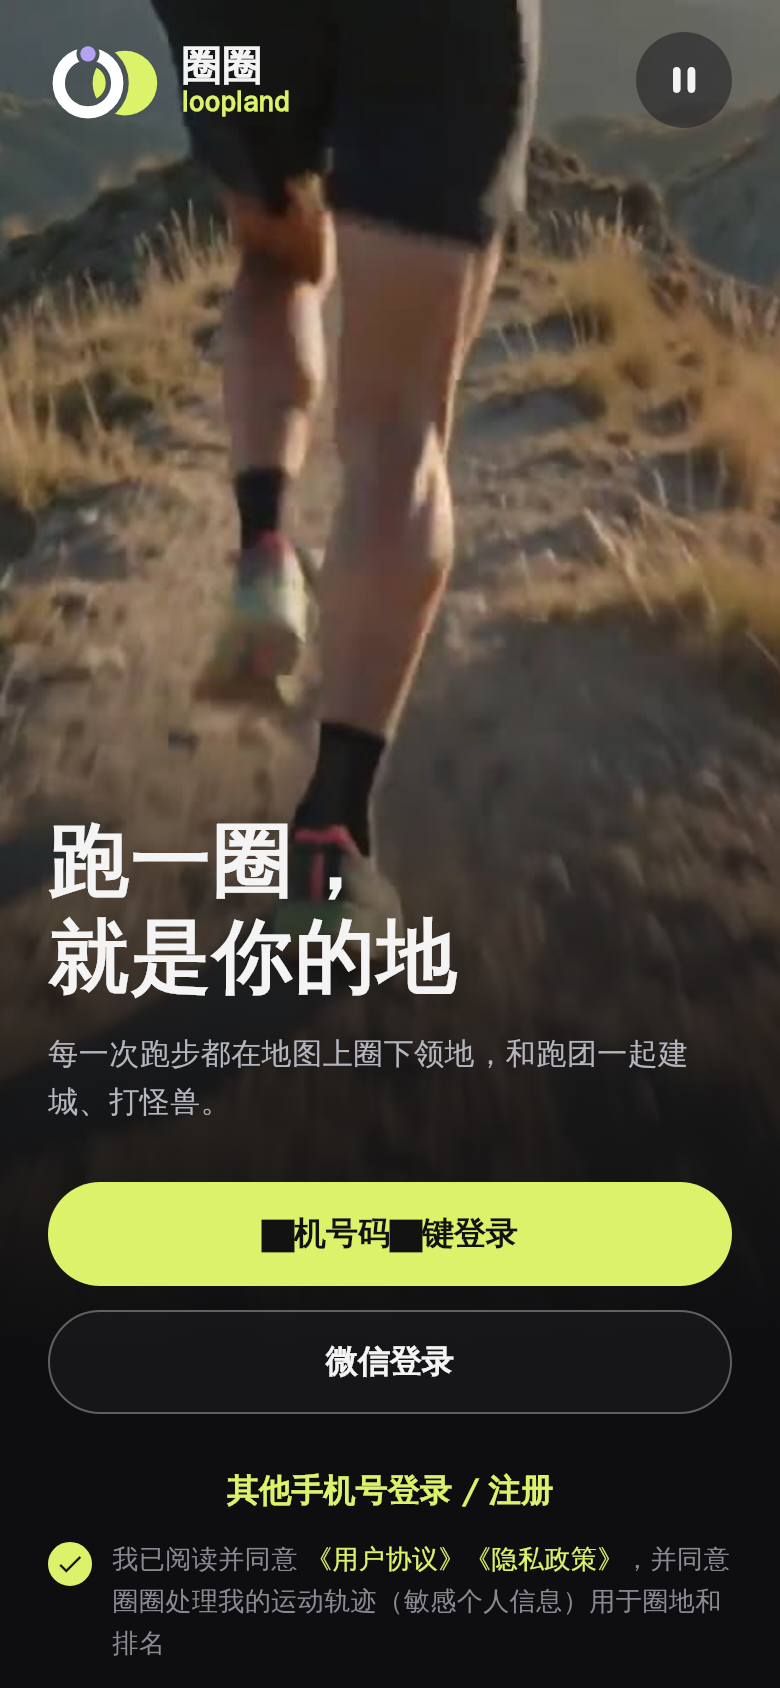
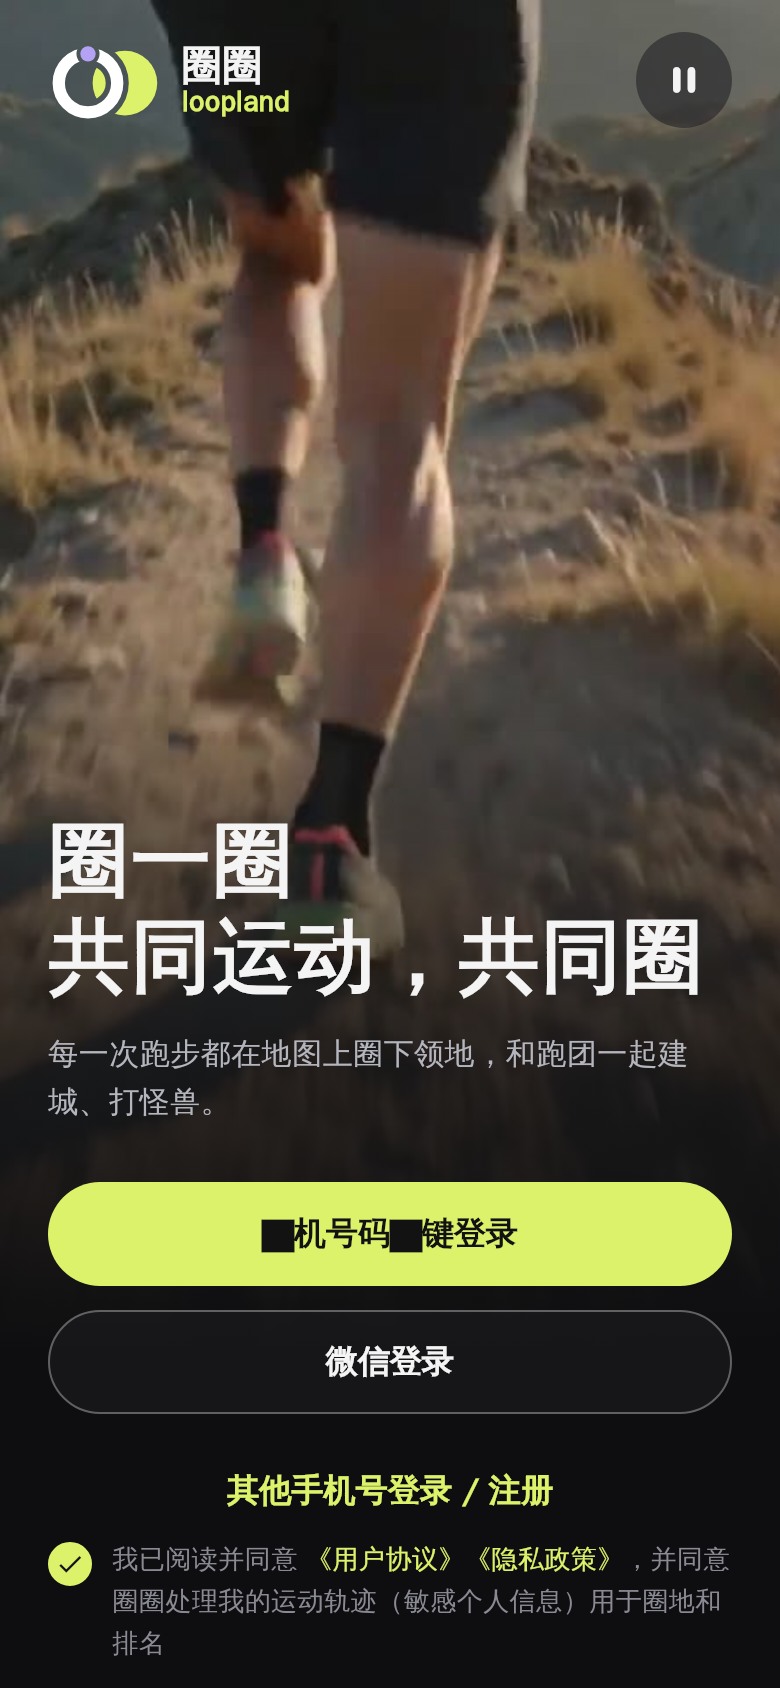
New slogan: 圈一圈，共同运动，共同圈
Login headline (scales down instead of wrapping on narrow screens),
one-click login page, share poster, games card, pubspec, README.

Claude-Session: https://claude.ai/code/session_01QRaVtoKTX5sqZRs9rKjLUf

Changed region(s): [[0.0615, 0.4621, 0.8923, 0.6161]]

diff --git a/app/lib/features/login/login_page.dart b/app/lib/features/login/login_page.dart
@@ -173,8 +173,13 @@ class _LoginPageState extends ConsumerState<LoginPage> {
                 ),
               ]),
               const Spacer(),
-              const Text('跑一圈，\n就是你的地',
-                  style: TextStyle(fontSize: 40, fontWeight: FontWeight.w900, height: 1.2, letterSpacing: 1)),
+              // 窄屏上第二行放不下时整体等比缩小，不折行。
+              const FittedBox(
+                fit: BoxFit.scaleDown,
+                alignment: Alignment.centerLeft,
+                child: Text('圈一圈\n共同运动，共同圈',
+                    style: TextStyle(fontSize: 40, fontWeight: FontWeight.w900, height: 1.2, letterSpacing: 1)),
+              ),
               const SizedBox(height: 12),
               const Text('每一次跑步都在地图上圈下领地，和跑团一起建城、打怪兽。',
                   style: TextStyle(color: LL.text2, fontSize: 15, height: 1.6)),

diff --git a/app/lib/features/social/share_sheet.dart b/app/lib/features/social/share_sheet.dart
@@ -268,7 +268,7 @@ class PosterCard extends StatelessWidget {
         const SizedBox(height: 14),
         Row(children: [
           const Expanded(
-            child: Text('跑一圈，就是你的地\n打开圈圈查看完整动态', style: TextStyle(color: LL.text3, fontSize: 12, height: 1.5)),
+            child: Text('圈一圈，共同运动，共同圈\n打开圈圈查看完整动态', style: TextStyle(color: LL.text3, fontSize: 12, height: 1.5)),
           ),
           if (share.url.isNotEmpty)
             Flexible(

diff --git a/app/test/widgets/login_page_test.dart b/app/test/widgets/login_page_test.dart
@@ -17,7 +17,7 @@ void main() {
       await t.pump(const Duration(milliseconds: 20));
     }
 
-    expect(find.text('跑一圈，\n就是你的地'), findsOneWidget);
+    expect(find.text('圈一圈\n共同运动，共同圈'), findsOneWidget);
     expect(find.text('本机号码一键登录'), findsOneWidget);
     expect(find.text('微信登录'), findsOneWidget);
     expect(find.text('其他手机号登录 / 注册'), findsOneWidget);

diff --git a/app/lib/features/play/games_page.dart b/app/lib/features/play/games_page.dart
@@ -193,7 +193,7 @@ class _GamesPageState extends ConsumerState<GamesPage> {
       case 'relay':
         return ref.watch(userProvider)?.crew == null ? '需要先加入跑团' : '团长发起';
       case 'war':
-        return '跑一圈，就是你的地';
+        return '圈一圈，共同运动，共同圈';
       default:
         return '即将开放';
     }

diff --git a/app/lib/auth/one_click.dart b/app/lib/auth/one_click.dart
@@ -206,7 +206,7 @@ class OneClickLogin {
       logoWidth: 72,
       logoHeight: 72,
       logoOffsetY: 40,
-      sloganText: '跑一圈，就是你的地',
+      sloganText: '圈一圈，共同运动，共同圈',
       sloganTextColor: text2,
       sloganOffsetY: 130,
       numberColor: text,

diff --git a/README.md b/README.md
@@ -1,6 +1,6 @@
 # 圈圈 Loopland
 
-跑一圈，就是你的地。Run a loop. Own the land.
+圈一圈，共同运动，共同圈。Loop together, move together.
 
 用跑步和各种运动在真实城市地图上圈地、建城、收集角色，和跑团一起抢地盘。
 
